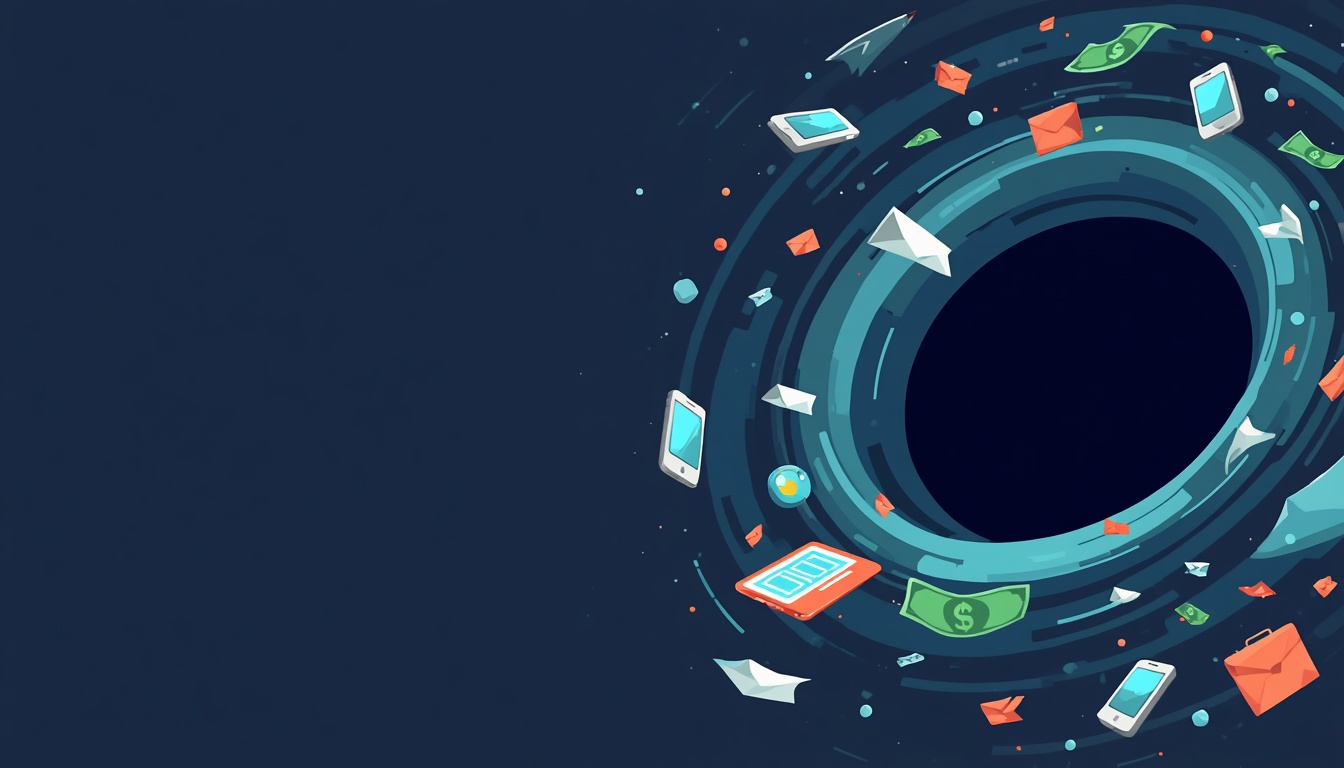
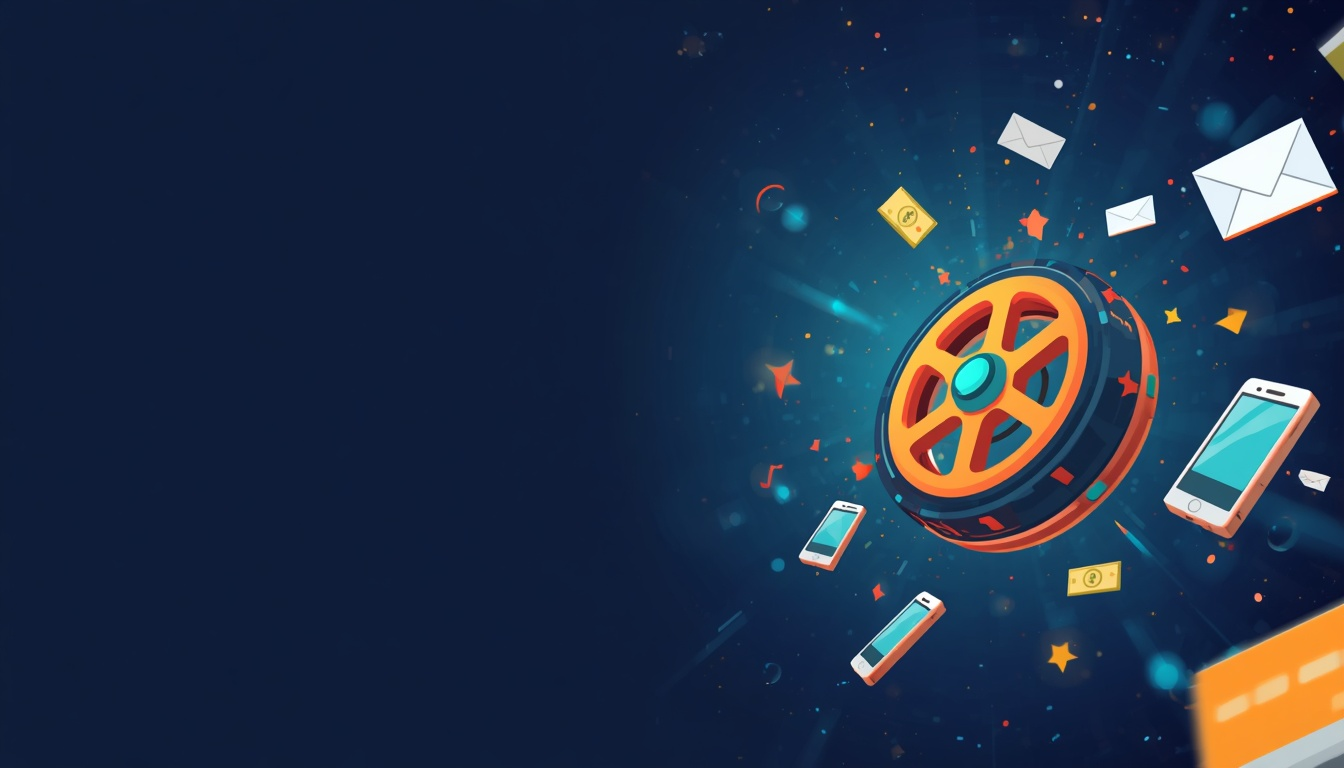
Rebrand HubHole to Flywheel across the 3D game
- purge 'hole' from all user-facing copy (title, start screen, HUD,
  banners, achievements, Skyline-opedia flavor text) and from code
  comments/identifiers; survivors are 'whole' and hole.io genre citations
- rename package to flywheel; save key now flywheel.save.v1
- regenerate logo/hero/rival/og art with flywheel motifs via Leonardo
- update gen-assets.sh prompts to match

diff --git a/index.html b/index.html
@@ -4,12 +4,12 @@
 <meta charset="UTF-8">
 <meta name="viewport" content="width=device-width, initial-scale=1.0, maximum-scale=1.0, user-scalable=no">
 <link rel="icon" type="image/png" href="assets/logo-mark.png">
-<meta property="og:title" content="HubHole — Swallow the CRM">
-<meta property="og:description" content="A rogue data hole is eating the entire HubSpot platform. 10 Hubs. One hole. Zero survivors.">
+<meta property="og:title" content="Flywheel — Swallow the CRM">
+<meta property="og:description" content="A rogue flywheel is eating the entire HubSpot platform. 10 Hubs. One flywheel. Zero survivors.">
 <meta property="og:image" content="assets/og-card.png">
 <meta property="og:type" content="website">
 <meta name="twitter:card" content="summary_large_image">
-<title>HubHole — Swallow the CRM</title>
+<title>Flywheel — Swallow the CRM</title>
 <style>
   :root{
     --orange:#ff5c35; --coral:#ff7a59; --navy:#213343; --navy2:#33475b;
@@ -108,7 +108,7 @@
   <div class="hud-left">
     <span class="pill" id="levelTag">Level 1 · CRM</span>
     <div id="scorebar"><div id="scorefill"></div></div>
-    <span id="sizehint">🕳 swallow things smaller than your rim</span>
+    <span id="sizehint">🌀 swallow things smaller than your rim</span>
   </div>
   <div class="hud-right">
     <span class="pill" id="timer">⏱ 60</span>
@@ -125,9 +125,9 @@
   <video class="bgvid" autoplay muted loop playsinline preload="auto" poster="assets/hero-vortex.png">
     <source src="assets/hero-motion.mp4" type="video/mp4">
   </video>
-  <img class="emblem" src="assets/logo-mark.png" alt="HubHole emblem">
-  <div class="logo">HUBHOLE</div>
-  <div class="tag">A rogue data hole just broke out of the <b>HubSpot platform</b> — and it's not flat anymore.<br>
+  <img class="emblem" src="assets/logo-mark.png" alt="Flywheel emblem">
+  <div class="logo">FLYWHEEL</div>
+  <div class="tag">A rogue flywheel just started spinning inside the <b>HubSpot platform</b> — and it's not flat anymore.<br>
   Roll it in true 3D, 3rd-person, across <b>10 cities</b> and <b>100 levels</b>, swallowing every record, deal, ticket and workflow (and eventually entire skylines) in your path.<br>
   <b>Now with 400% more sass, and an actual Z-axis.</b></div>
   <div class="howto">
@@ -135,11 +135,11 @@
     <span>⌨ WASD / arrows also work</span>
     <span>🔥 Chain eats for combo multipliers</span>
     <span>⭐ Golden records = JACKPOT</span>
-    <span>🕳 Out-grow rival holes, then eat THEM</span>
+    <span>🌀 Out-spin rival flywheels, then eat THEM</span>
     <span>🏙 Devour landmarks. Yes, THE landmarks.</span>
     <span>🎵 M — mute · 👾 try the Konami code</span>
   </div>
-  <button class="btn" id="startBtn">OPEN THE HOLE</button>
+  <button class="btn" id="startBtn">SPIN IT UP</button>
   <div class="credit">Not affiliated with HubSpot, Inc. · All records were harmed</div>
 </div>
 
@@ -177,7 +177,7 @@
   <div class="ovtitle">PLATFORM CONSUMED</div>
   <div id="finalScore">Total mass: 0</div>
   <div id="achCount"></div>
-  <div class="ovsub">You swallowed all 10 Hubs. The entire CRM — every contact, deal, ticket and AI agent — lives in the hole now. Somewhere, a sales rep is updating a spreadsheet by hand and crying. Migrations were never this satisfying.</div>
+  <div class="ovsub">You swallowed all 10 Hubs. The entire CRM — every contact, deal, ticket and AI agent — lives in the flywheel now. Somewhere, a sales rep is updating a spreadsheet by hand and crying. Migrations were never this satisfying.</div>
   <button class="btn" id="againBtn">SWALLOW IT ALL AGAIN</button>
 </div>
 

diff --git a/src/main.js b/src/main.js
@@ -1,4 +1,4 @@
-// HubHole 3D — real game bootstrap and flow.
+// Flywheel 3D — real game bootstrap and flow.
 //
 // Wires together everything the prior implementation stages built: engine
 // primitives (scene/avatar/camera/input), difficulty-curve data
@@ -407,7 +407,7 @@ export function main() {
   function tierTip(tier) {
     switch (tier) {
       case 'tutorial': return 'Swallow anything smaller than your rim. That is the whole game.';
-      case 'first-contest': return 'A rival hole wants your food — outgrow it, then eat it back.';
+      case 'first-contest': return 'A rival flywheel wants your food — outgrow it, then eat it back.';
       case 'escalation': return 'Hazards incoming: watch for falling cargo drops.';
       case 'expert': return 'Real routing skill required. Plan your route between rivals and hazards.';
       case 'master': return 'This rival plays dirty — it raids clusters, not just wanders. Watch your back.';
@@ -435,7 +435,7 @@ export function main() {
     const descEl = document.getElementById('introDesc');
     if (descEl) {
       descEl.innerHTML = `${level.districtName}, ${metro.name}. 🎯 Target: <b>${level.target.toLocaleString()}</b> mass &nbsp;·&nbsp; ⏱ ${level.time}s`
-        + (level.rivalCount > 0 ? `<br>🕳 ${level.rivalCount} rival hole${level.rivalCount > 1 ? 's' : ''} contesting this district.` : '')
+        + (level.rivalCount > 0 ? `<br>🌀 ${level.rivalCount} rival flywheel${level.rivalCount > 1 ? 's' : ''} contesting this district.` : '')
         + (capstoneRequired ? `<br>🏙 Grow big enough to swallow the district's landmark to finish.` : '');
     }
     const tipEl = document.getElementById('introTip');
@@ -475,8 +475,8 @@ export function main() {
     const hintEl = document.getElementById('sizehint');
     if (hintEl) {
       hintEl.textContent = level.rivalCount > 0
-        ? '🕳 rival holes are stealing your food — eat THEM back!'
-        : '🕳 swallow things smaller than your rim';
+        ? '🌀 rival flywheels are stealing your food — eat THEM back!'
+        : '🌀 swallow things smaller than your rim';
     }
   }
 
@@ -641,7 +641,7 @@ export function main() {
 
     if (k === 'm') {
       Audio.muted = !Audio.muted;
-      showToast(Audio.muted ? '🔇 <b>Muted.</b> The hole judges you silently.' : '🔊 <b>Sound on.</b> Let them hear it.');
+      showToast(Audio.muted ? '🔇 <b>Muted.</b> The flywheel judges you silently.' : '🔊 <b>Sound on.</b> Let them hear it.');
       return;
     }
 
@@ -810,7 +810,7 @@ export function main() {
         avatar.mass += events.bonus * state.modifiedStats.massGainMultiplier;
         Audio.rivalEat();
         unlockAchievement('rival');
-        showBanner(`🕳 RIVAL SWALLOWED — +${Math.round(events.bonus)}`, 1600);
+        showBanner(`🌀 RIVAL ABSORBED — +${Math.round(events.bonus)}`, 1600);
       }
       if (events.respawned) {
         showBanner('😈 RIVAL RESPAWNED', 1100);

diff --git a/src/meta/collection.js b/src/meta/collection.js
@@ -34,10 +34,10 @@ export const CITY_QUIPS = {
   billboard: [
     'CTA: Consume The All.',
     'Breeze AI billboard: fully absorbed. Ironic, given the AI never saw it coming.',
-    'Impressions: one. Then it became one with the hole.',
+    'Impressions: one. Then it became one with the flywheel.',
   ],
   'building-small': [
-    'Storefront acquired. By Hole, Inc.',
+    'Storefront acquired. By Flywheel, Inc.',
     'Kiosk relocated. To the void.',
     "Open sign flipped to 'gone'.",
   ],
@@ -48,15 +48,15 @@ export const CITY_QUIPS = {
   ],
   'building-large': [
     'Skyline swallowed. Rent stabilized.',
-    'Portal instance: ported to the hole.',
-    'The building filed for bankruptcy. Then filed itself into the hole.',
+    'Portal instance: ported to the flywheel.',
+    'The building filed for bankruptcy. Then filed itself into the flywheel.',
   ],
   // One flavor quip set per METROS[].landmarkType (src/data/metros.js) — the
   // level-capstone landmark eat for each of the 10 metros/chapters.
   'liberty-statue': [
     'Give me your tired, your poor, your huddled masses... yearning to be eaten.',
     "Lady Liberty's torch: extinguished. Politely.",
-    'Land of the free. Home of the hole.',
+    'Land of the free. Home of the flywheel.',
   ],
   'lattice-tower': [
     'Iron lattice. Zero resistance.',
@@ -64,9 +64,9 @@ export const CITY_QUIPS = {
     'Panoramic view: briefly. Then just dark.',
   ],
   'clock-tower': [
-    'Big Bell, bigger hole.',
+    'Big Bell, bigger flywheel.',
     "Time's up. Literally.",
-    'God Save the Hole.',
+    'God Save the Flywheel.',
   ],
   'sky-tower': [
     'Neon signage: unplugged mid-blink.',
@@ -76,7 +76,7 @@ export const CITY_QUIPS = {
   'mega-spire': [
     "World's tallest. World's gone-est.",
     'Sky bridge: bridge to nowhere.',
-    'Gold-plated. Hole-plated now.',
+    'Gold-plated. Flywheel-plated now.',
   ],
   amphitheater: [
     'Thumbs down. Way down.',
@@ -89,18 +89,18 @@ export const CITY_QUIPS = {
     'Samba stopped. Mid-beat.',
   ],
   'onion-palace': [
-    'Onion domes. Now just a hole where onions used to be.',
+    'Onion domes. Now just a flywheel where onions used to be.',
     'Red Square: now just Square. Also gone.',
     'Kremlin walls: consumed, brick by brick.',
   ],
   'sail-opera': [
     'Curtain call. Final call.',
     'Sails furled. Into the abyss.',
-    'Standing ovation. For the hole.',
+    'Standing ovation. For the flywheel.',
   ],
   'portal-tower': [
     'Breeze AI campus: fully synced. Into the void.',
-    'HubSpot Tower: closed-won. By a hole.',
+    'HubSpot Tower: closed-won. By a flywheel.',
     'The whole platform. Eaten. As threatened.',
   ],
 };

diff --git a/src/engine/avatar.js b/src/engine/avatar.js
@@ -1,11 +1,11 @@
-// The player avatar: a swirling dark-matter vortex orb — the existing HubHole
+// The player avatar: a swirling dark-matter vortex orb — the existing Flywheel
 // brand mascot (logo-mark.png / hero-vortex.png), given a 3D body a chase
 // camera can frame. No browser-only API is touched at module top level — only
 // inside createAvatar(), so a bare `import` of this file never throws in Node.
 export function createAvatar(scene, THREE) {
   const object3D = new THREE.Group();
 
-  // Core: dark, emissive-purple sphere — the "hole" body.
+  // Core: dark, emissive-purple sphere — the vortex body.
   const coreGeo = new THREE.SphereGeometry(1, 32, 24);
   const coreMat = new THREE.MeshStandardMaterial({
     color: 0x120018,
@@ -45,13 +45,13 @@ export function createAvatar(scene, THREE) {
   // byte-identical behavior to before this field existed.
   let _speedMultiplier = 1;
 
-  // World units/sec — same magnitude as the old 2D game's hole move speed
-  // (`hole.x += mx/l*340*dt`), reused because world sizes (2400-4000, see
+  // World units/sec — same magnitude as the old 2D game's flywheel move speed
+  // (`pos.x += mx/l*340*dt`), reused because world sizes (2400-4000, see
   // src/data/formulas.js worldSize()) are unchanged from the old game's pixel
   // world sizes, so the same constant keeps the same relative pacing.
   const BASE_SPEED = 340;
 
-  // EXACT formula ported from the current shipped game (index.html `holeR()`).
+  // EXACT formula ported from the original 2D game (its player-radius func).
   // Relied on elsewhere in the design — do not change its shape.
   function radius() {
     return 26 + Math.sqrt(_mass) * 1.9;
@@ -84,7 +84,7 @@ export function createAvatar(scene, THREE) {
     // Orientation: smoothly face the travel direction (damped like the old
     // game's camera lerp, `Math.min(1, dt*6)`), plus a forward tilt that
     // grows with speed so it reads as a rolling/accelerating mass rather than
-    // a static hole-in-the-ground.
+    // a static pit-in-the-ground.
     const damp = Math.min(1, dt * 6);
     object3D.rotation.y += (facingAngle - object3D.rotation.y) * damp;
     const tiltTarget = Math.min(0.35, (speed / BASE_SPEED) * 0.35);

diff --git a/src/meta/save.js b/src/meta/save.js
@@ -1,6 +1,6 @@
 // Meta-progression persistence layer.
 //
-// Storage contract: localStorage key `hubhole.save.v1`, schema:
+// Storage contract: localStorage key `flywheel.save.v1`, schema:
 //   {
 //     coins: number,
 //     stars: { [levelN: string]: number },       // per-level star rating, sparse
@@ -19,7 +19,7 @@
 // in-memory object store behind the identical API, so save/load round-trip
 // logic can be exercised headlessly.
 
-export const SAVE_KEY = 'hubhole.save.v1';
+export const SAVE_KEY = 'flywheel.save.v1';
 
 const UPGRADE_KEYS = ['size', 'speed', 'magnet', 'time', 'growth'];
 
@@ -45,7 +45,7 @@ function hasLocalStorage() {
     if (typeof localStorage === 'undefined' || localStorage === null) return false;
     // Confirm it's actually usable, not just present (some environments expose
     // a stub that throws on get/setItem).
-    const probeKey = '__hubhole_probe__';
+    const probeKey = '__flywheel_probe__';
     localStorage.setItem(probeKey, '1');
     localStorage.removeItem(probeKey);
     return true;

diff --git a/src/systems/achievements.js b/src/systems/achievements.js
@@ -22,7 +22,7 @@ export const ACH = {
   combo25: ['☄ Extinction-Level Snacking', '25 combo. Scientists saw it from space.'],
   // was: "You ate a golden record." — "record" retargeted (city has no CRM records).
   gold: ['🌟 Shiny!', 'You swallowed a golden pickup. Legend says there are only a few.'],
-  rival: ['🕳 Hole-y Domination', 'You ate a rival hole. There can be only one.'],
+  rival: ['🌀 Flywheel Domination', 'You ate a rival flywheel. There can be only one.'],
   // was: "Touch more records." — retargeted to the new swallow-target: the city.
   fast: ['⚡ Speedrunner', 'Half the target with 30+ seconds left. Touch grass? No. Touch more city.'],
   // was: "Ate 5 sync-storm drops." — "sync-storm" (data-sync jargon) softened to plain "storm".

diff --git a/src/engine/input.js b/src/engine/input.js
@@ -34,7 +34,7 @@ export function handleKeyUp(keys, key) {
 
 // Pure: given a keys map, compute the {dx, dz} axis pair from WASD/arrows.
 // Diagonal input is normalized so it isn't faster than cardinal movement
-// (same as the old game: `const l=Math.hypot(mx,my); hole.x+=mx/l*...`).
+// (same as the old game: `const l=Math.hypot(mx,my); pos.x+=mx/l*...`).
 export function axesFromKeys(keys) {
   let mx = 0;
   let mz = 0;

diff --git a/scripts/logic-test.js b/scripts/logic-test.js
@@ -1,5 +1,5 @@
 'use strict';
-// HubHole logic test suite — module-import-based (the ES-module engine
+// Flywheel logic test suite — module-import-based (the ES-module engine
 // rewrite has no single <script> tag left to regex-extract, unlike the
 // original single-file version of this test). Runnable via the existing
 // `npm test` command (`node scripts/logic-test.js`) — this file stays plain

diff --git a/src/systems/rivals.js b/src/systems/rivals.js
@@ -1,4 +1,4 @@
-// Rival-hole AI — ported from the current shipped 2D game's rival block
+// Rival-flywheel AI — ported from the original 2D game's rival block
 // (recovered from git history: `git show 97c9024:index.html`, lines
 // ~467-471 for spawn/init and ~804-839 for the per-frame AI), adapted from
 // (x,y) canvas movement to 3D (x,z) ground-plane movement. Height (y) is

diff --git a/scripts/serve.js b/scripts/serve.js
@@ -26,4 +26,4 @@ http.createServer((req, res) => {
     res.writeHead(200, { 'Content-Type': MIME[path.extname(file).toLowerCase()] || 'application/octet-stream' });
     res.end(data);
   });
-}).listen(port, () => console.log(`HubHole serving at http://localhost:${port}`));
+}).listen(port, () => console.log(`Flywheel serving at http://localhost:${port}`));

diff --git a/STATUS.md b/STATUS.md
@@ -5,6 +5,7 @@ _Last updated: 2026-07-23 (post-deploy verification pass)._
 ## Live
 
 - **Deployed: https://funnel-hub.vercel.app** — Vercel project `funnel-hub`, serving the `dist/` static build. Redeploy flow: `npm run build && cd dist && vercel --prod`. SSO deployment protection was disabled via the Vercel API so the site is public.
+- **Rebrand to Flywheel shipped (2026-07-23)**: the game is now **Flywheel** (previous brand retired) — title/og tags, start-screen copy, and all in-game vortex copy rewritten to flywheel language, package renamed to `flywheel`, save key moved to `flywheel.save.v1` (fresh key, no migration), and the logo/hero/rival/og art regenerated with flywheel prompts. No game-logic changes.
 
 ## Verified in a real browser (2026-07-23)
 
@@ -23,7 +24,7 @@ Independently verified this session (main agent ran `npm test` and `npm run buil
 - **100 levels across 10 stylized city metros** (10 districts each), generated formulaically (`src/data/levels.js` / `src/data/formulas.js`), not hand-authored. Score target is exactly `target(n) = 1000×n²` as requested (1k/4k/9k/…/10,000,000 at level 100). World size, timer, rival count, hazard density, and the capstone size-gate all scale independently per a 6-tier difficulty curve (tutorial → first-contest at level 6 → escalation → expert → master → capital-siege at 100), so difficulty genuinely spikes after level 6 without the per-level object count exploding — item *value* scales by n² instead, verified at a constant ~1.43x spawnable-mass-to-target ratio at every sampled level (1, 6, 7, 10, 25, 50, 100).
 - **Full game loop wired end-to-end** (`src/main.js`): start → world map → level intro → play → done/fail → shop → next level or win screen at 100. Verified by reading the file directly — this is a real integration, not scaffolding.
 - **Mandatory meta-progression, now actually built** (was "proposed" as of the last STATUS update): `localStorage` save (`src/meta/save.js`, with an in-memory fallback when storage is unavailable), a coin economy, 5 upgrade tracks (size/speed/magnet/time/growth) with a shop screen, a world-map level-select grid, per-level stars, and a "Skyline-opedia" collection album.
-- **14 achievements** (11 original + 3 new: `metroCleared`, `centurion`, `hoarder`), combo multiplier (up to 5x, 6 named tiers), golden pickups (8x bonus), rush-hour "storm" drop events, edible rival holes (AI gets more aggressive at the master/capital-siege tiers), Konami-code god mode, and the `unsub`/`breeze` typed easter eggs — all ported faithfully from the original 2D game (recovered via `git show 97c9024:index.html`) and confirmed against the original's exact constants (eat-gate 0.82/0.78, combo formula, golden 8x, rival radius/timing).
+- **14 achievements** (11 original + 3 new: `metroCleared`, `centurion`, `hoarder`), combo multiplier (up to 5x, 6 named tiers), golden pickups (8x bonus), rush-hour "storm" drop events, edible rival flywheels (AI gets more aggressive at the master/capital-siege tiers), Konami-code god mode, and the `unsub`/`breeze` typed easter eggs — all ported faithfully from the original 2D game (recovered via `git show 97c9024:index.html`) and confirmed against the original's exact constants (eat-gate 0.82/0.78, combo formula, golden 8x, rival radius/timing).
 - **53-check headless test suite** (`npm test` / `scripts/logic-test.js`, rewritten this session) — no longer regex-extracts a `<script>` tag; imports the real `src/` modules directly under plain Node. Covers formulas, level generation/pacing invariant, save/load (with and without localStorage), upgrades, real Three.js scene-graph construction (props/landmarks, no GPU needed), swallow math, achievements/combo, and audio. **53 passed, 0 failed**, confirmed by direct run.
 - **`npm run build`** now also copies `src/` into `dist/` alongside `index.html` and `assets/` (including the vendored `assets/vendor/three.module.js`). Confirmed working.
 - **AI-generated art assets** (`assets/`) and **synthesized Web Audio** carry over unchanged from before the rewrite.
@@ -41,7 +42,7 @@ See `docs/city-3d-redesign-plan.md` for the full design (formulas, tier table, m
 
 ## Repo / publishing status
 
-- Public GitHub repo: `https://github.com/NicoLafakis/hubhole` (package name `hubhole`; the local working-copy folder is separately named).
+- Public GitHub repo: `https://github.com/NicoLafakis/hubhole` (repo URL predates the rebrand; package name is now `flywheel`; the local working-copy folder is separately named).
 - Version-controlled since 2026-07-22 (`git init -b main`, initial commit `97c9024`).
 - Tracked: `index.html`, `package.json`, `package-lock.json`, `README.md`, `scripts/`, `docs/`, `assets/`, `src/`, plus this file and `AGENTS.md`.
 - Gitignored: `.leonardo-key`, `node_modules/`, `dist/`, `.DS_Store`, `Thumbs.db`, `*.log`.

diff --git a/README.md b/README.md
@@ -1,8 +1,8 @@
-# 🕳 HubHole
+# 🌀 Flywheel
 
-A HubSpot-flavored [hole.io](https://hole-io.com/) game built with HTML5 Canvas.
+A HubSpot-flavored eat-'em-up game (in the spirit of [hole.io](https://hole-io.com/)) built with Three.js.
 
-A rogue data hole just opened inside the HubSpot platform. Swallow every record, deal, ticket and workflow across **10 Hubs** — grow big enough to eat the whole CRM.
+A rogue flywheel just started spinning inside the HubSpot platform. Swallow every record, deal, ticket and workflow across **10 Hubs** — grow big enough to eat the whole CRM.
 
 > Not affiliated with HubSpot, Inc. · All records were harmed.
 
@@ -19,8 +19,8 @@ Then visit [http://localhost:3003](http://localhost:3003).
 
 ## Controls
 
-- **Mouse / touch drag** — move the hole
-- **WASD** or **Arrow keys** — move the hole
+- **Mouse / touch drag** — move the flywheel
+- **WASD** or **Arrow keys** — move the flywheel
 - **M** — mute / unmute
 - **Goal** — eat objects smaller than your rim to gain mass
 - **Win condition** — reach the target mass before the timer runs out
@@ -33,14 +33,14 @@ Then visit [http://localhost:3003](http://localhost:3003).
   node scripts/leonardo.js models          # list available models
   node scripts/leonardo.js gen "prompt" 1344 768 assets/hero-vortex.png
   ```
-- **🌀 Animated vortex hole** — spiral arms, pulsing depth ring, fake-glow rim. Objects spaghettify as they fall in.
+- **🌀 Animated flywheel vortex** — spiral arms, pulsing depth ring, fake-glow rim. Objects spaghettify as they fall in.
 - **⚡ Juice, optimized** — shockwaves, particles, parallax hub backgrounds and vignette, all sprite-cached so it runs smooth.
 - **🔥 Combo system** — chain eats to multiply mass (up to ×5). Tiers escalate from `SNACKING` to `THE SYNC-ENING`.
 - **⭐ Golden records** — 1–2 jackpots per level, worth 8×. The one clean contact in the entire CRM.
 - **⚡ Sync storms** — objects periodically rain from the sky. Delicious weather.
-- **🕳 Edible rivals** — out-grow a rival hole, then swallow it for a massive bonus. There can be only one.
+- **🌀 Edible rivals** — out-grow a rival flywheel, then swallow it for a massive bonus. There can be only one.
 - **🏆 11 achievements** — from *First Contact... Consumed* to *Platform Apocalypse*.
-- **💬 Comedy everywhere** — every object type has its own quips, plus fake CRM notifications, sassy level intros/outros, and growing titles from *Data Gremlin* to *CRM Black Hole*.
+- **💬 Comedy everywhere** — every object type has its own quips, plus fake CRM notifications, sassy level intros/outros, and growing titles from *Data Gremlin* to *CRM Singularity*.
 - **🎵 Synthesized audio** — gulps, chimes, fanfares and a quiet bass groove. No audio files, all Web Audio API.
 
 ## Easter Eggs
@@ -58,10 +58,10 @@ Then visit [http://localhost:3003](http://localhost:3003).
 | 3 | Sales Hub | Deals, quotes and closed-won trophies |
 | 4 | Service Hub | Tickets, knowledge base and happy customers |
 | 5 | Content Hub | Blogs, videos, podcasts and ebooks |
-| 6 | Operations Hub | **Rival hole** appears — don't let it steal your workflows |
-| 7 | Commerce Hub | **Rival hole** — protect invoices, carts and payments |
-| 8 | Reporting & Analytics | **Rival hole** — swallow dashboards and charts |
-| 9 | App Marketplace & Automation | **Two rival holes** compete for integrations |
+| 6 | Operations Hub | **Rival flywheel** appears — don't let it steal your workflows |
+| 7 | Commerce Hub | **Rival flywheel** — protect invoices, carts and payments |
+| 8 | Reporting & Analytics | **Rival flywheel** — swallow dashboards and charts |
+| 9 | App Marketplace & Automation | **Two rival flywheels** compete for integrations |
 | 10 | Breeze AI | The finale — eat the entire platform including AI agents |
 
 ## Docs
